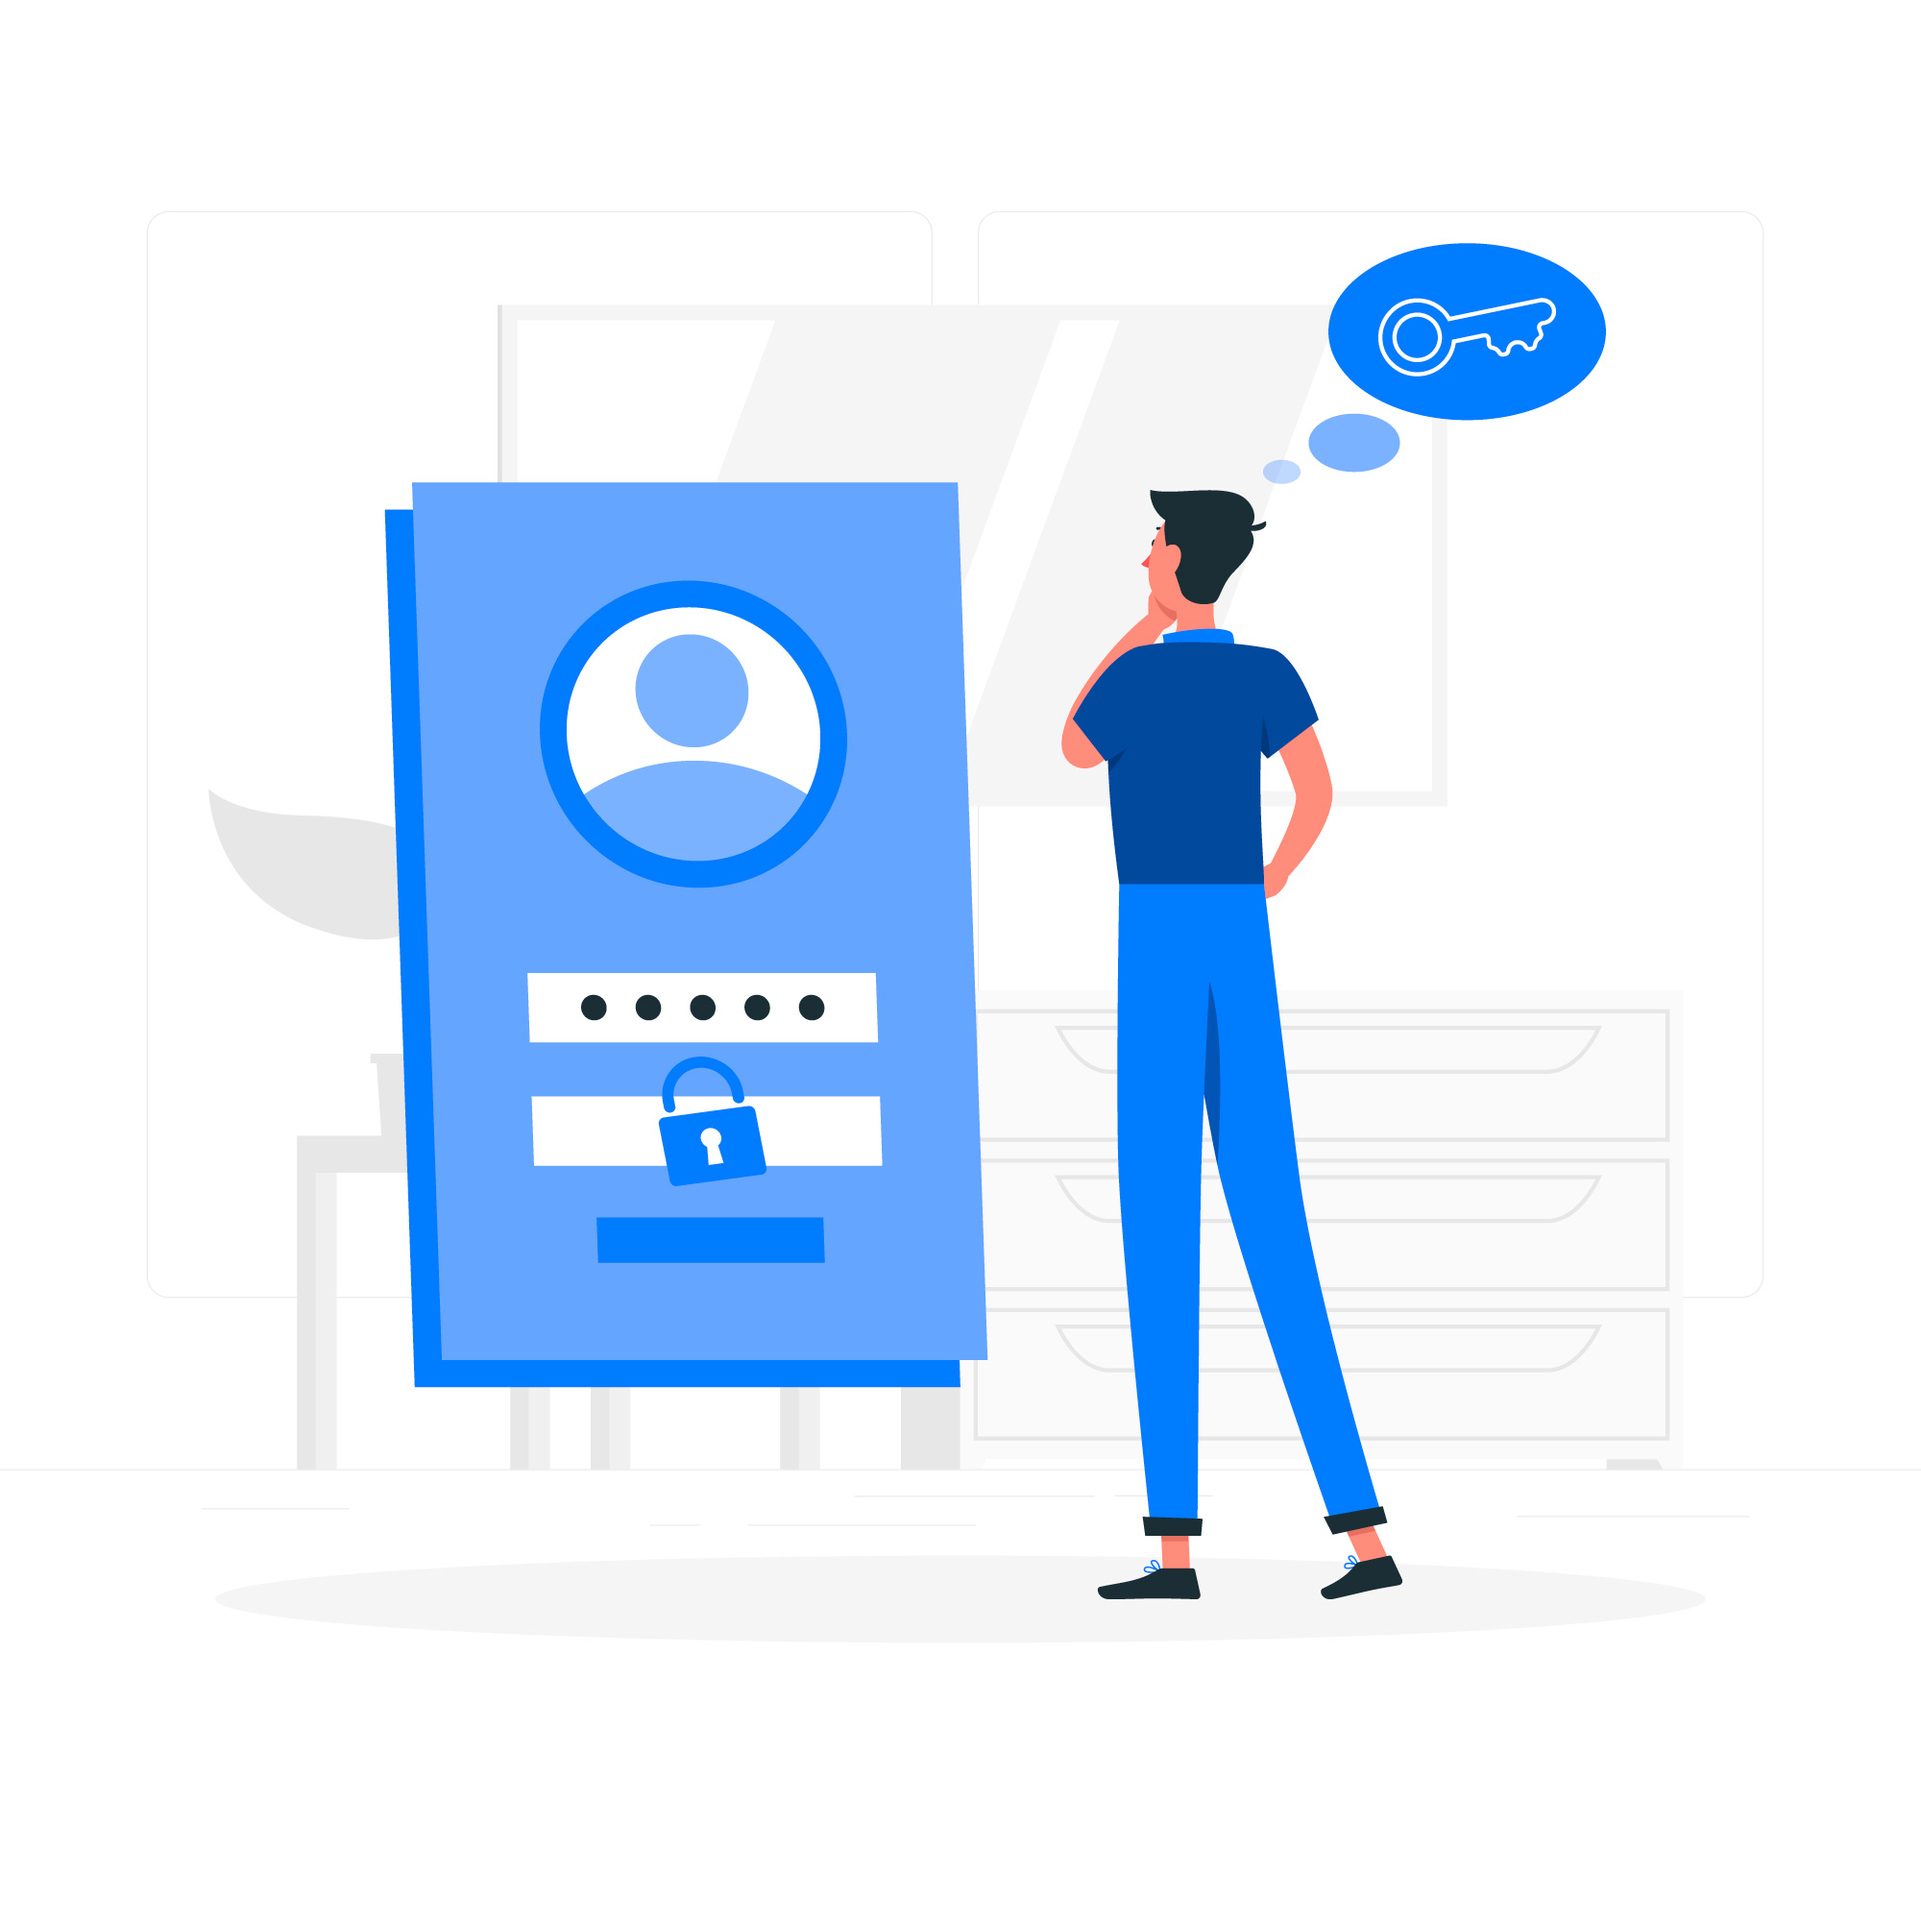
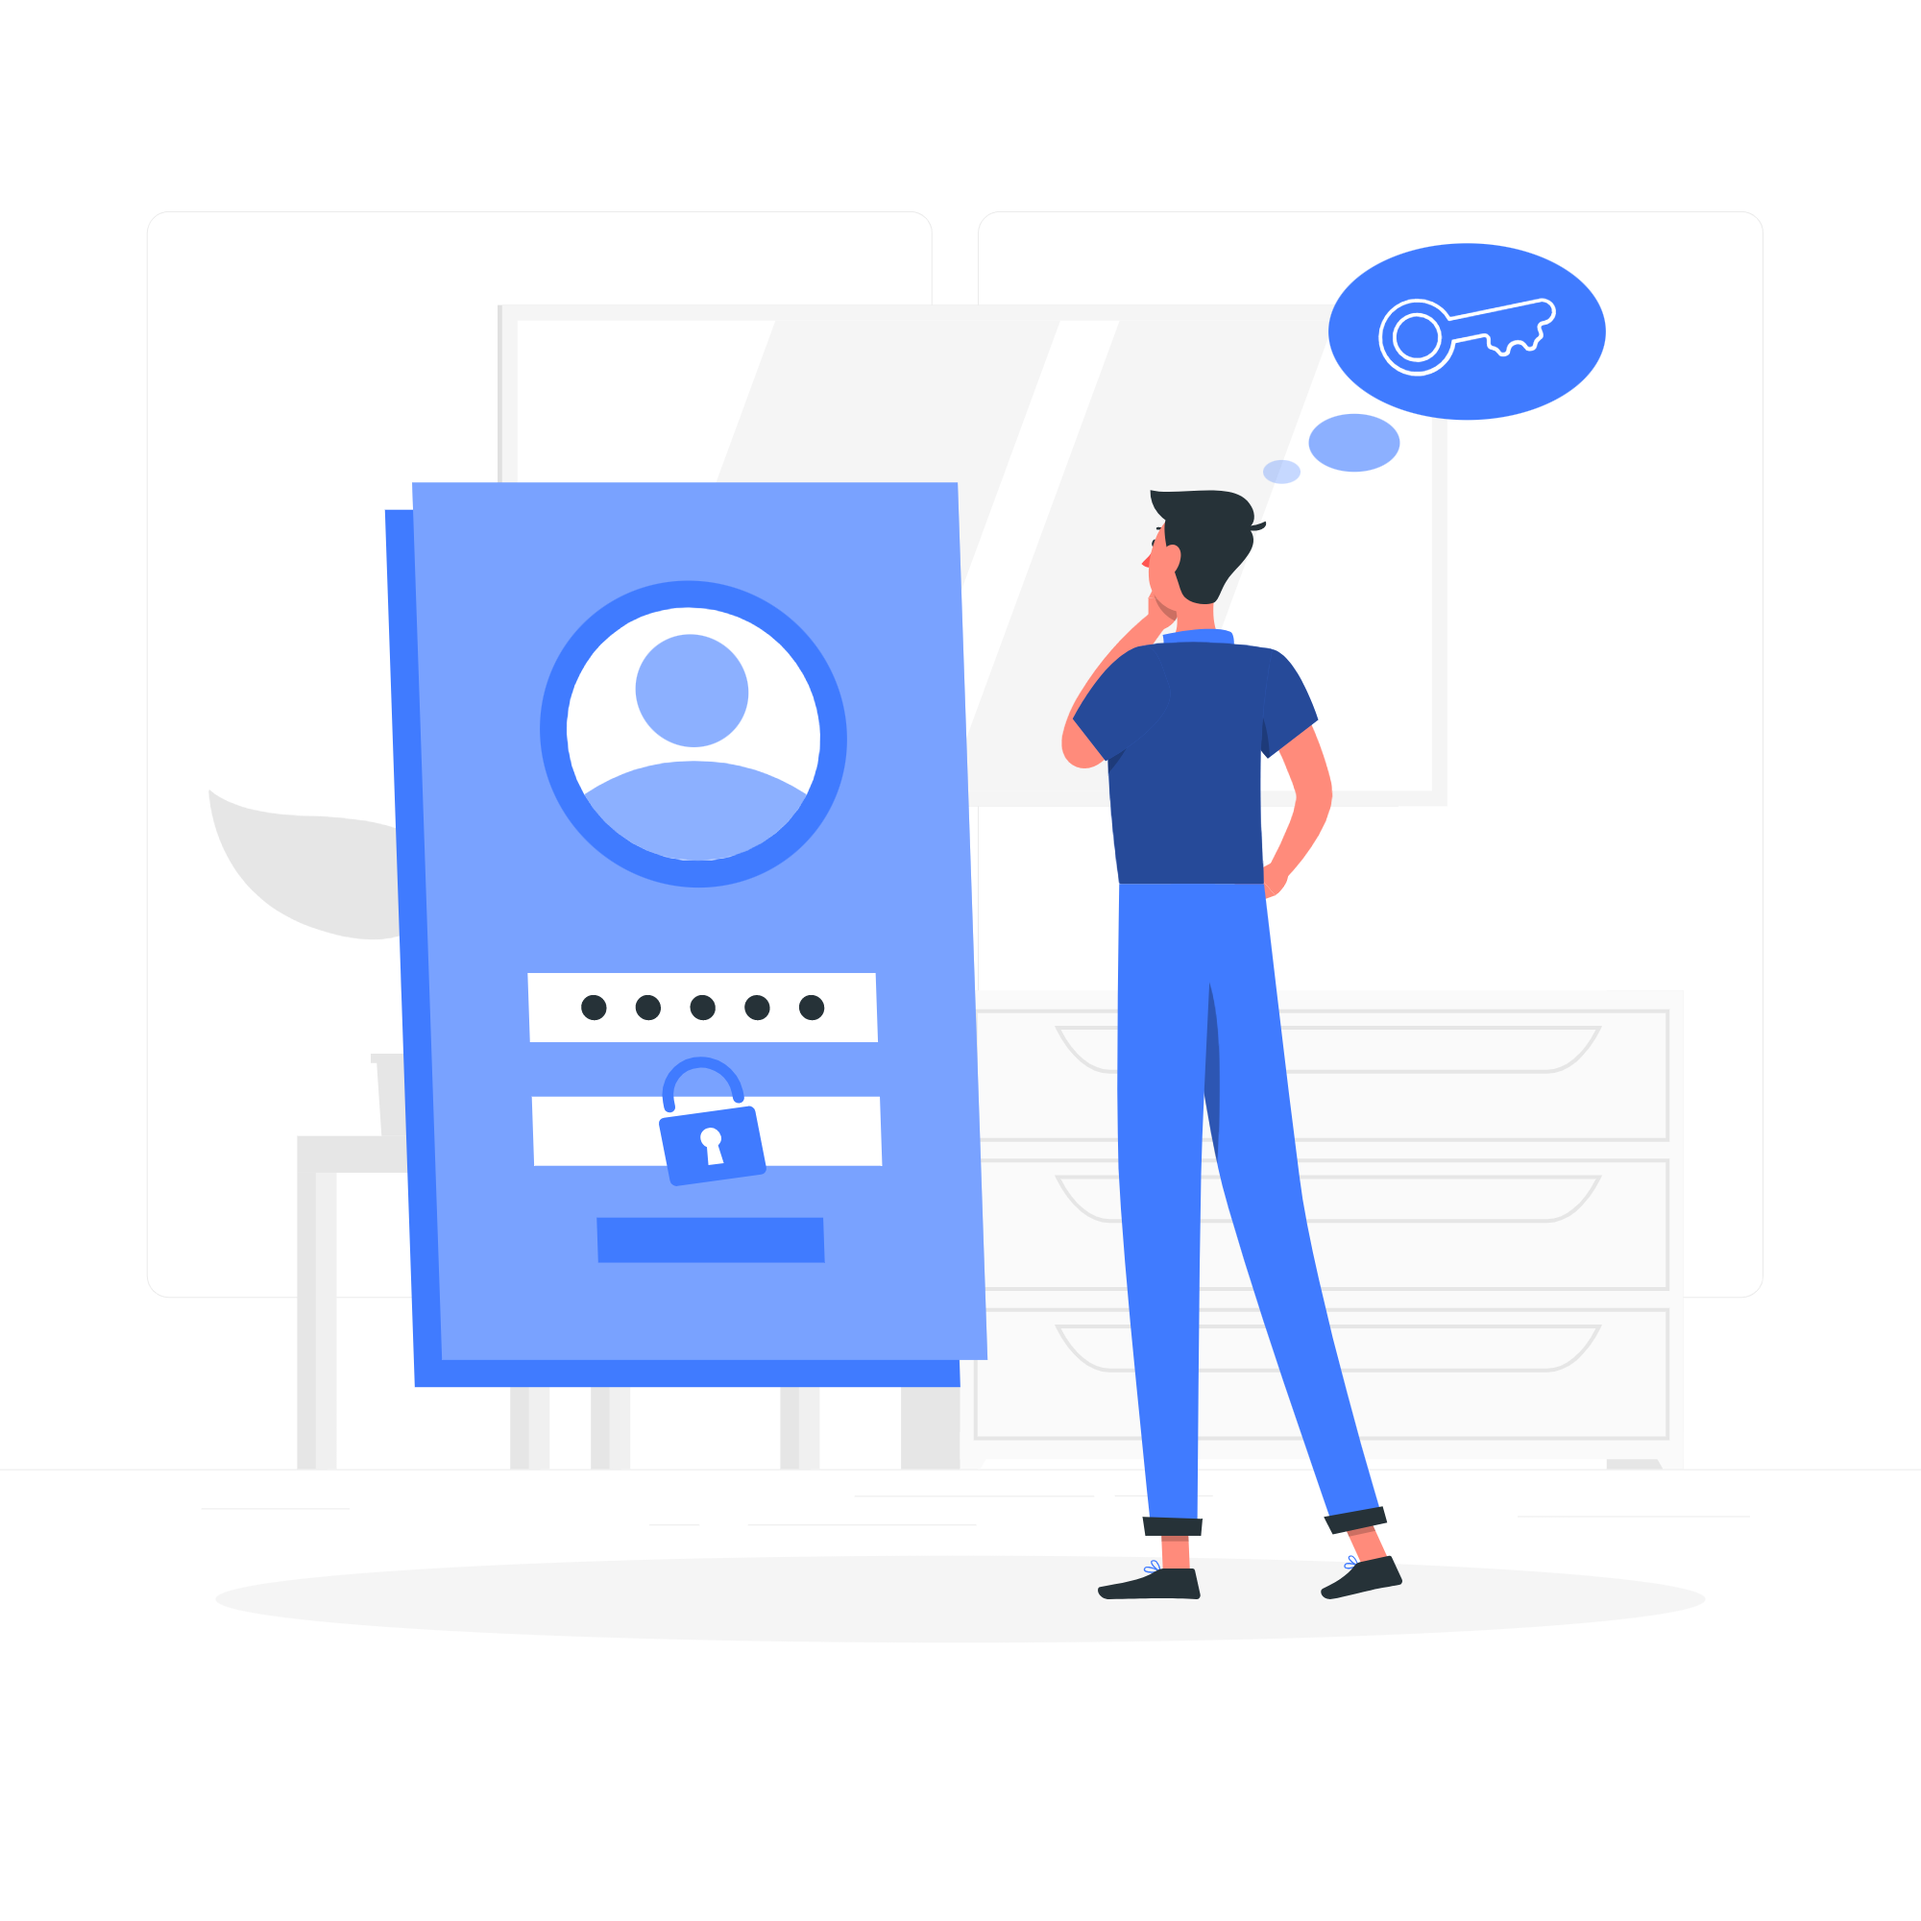
páginas Identity em darkmode
Páginas updated:

ConfirmEmail,
ForgotPW,
ForgotPWConfirmation,
ResetPw,
ResetPwConfirmation;

diff --git a/FPTV/wwwroot/css/site.css b/FPTV/wwwroot/css/site.css
@@ -18,6 +18,9 @@ body {
     font-family: Noto Sans;
     
 }
+.darktheme {
+    background-color: lightgray;
+}
 
 button {
     background-color: #CC0033;
@@ -131,7 +134,8 @@ td {
 .bordercolor {
     border-color: black !important;
     border: 1px solid;
-    color:black;
+    color: black;
+    border-radius: 15px;
 }
 .central {
     width: 100%;

diff --git a/FPTV/wwwroot/css/siteDARK.css b/FPTV/wwwroot/css/siteDARK.css
@@ -137,6 +137,7 @@ td {
     border-color: #CC0033 !important;
     border: 1px solid;
     color:white;
+    border-radius:15px;
 }
 .central {
     width: 100%;
